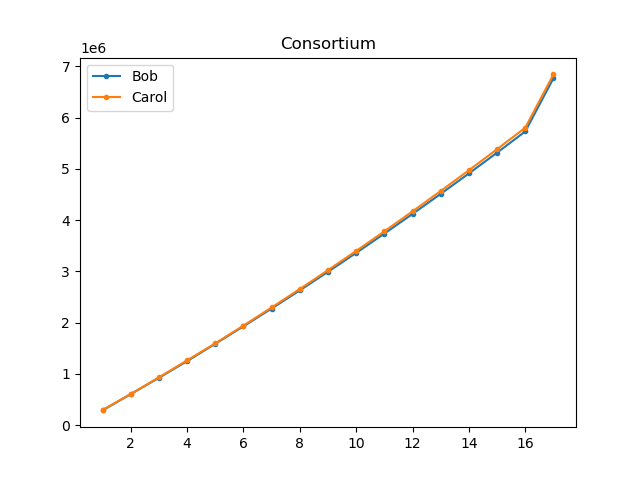
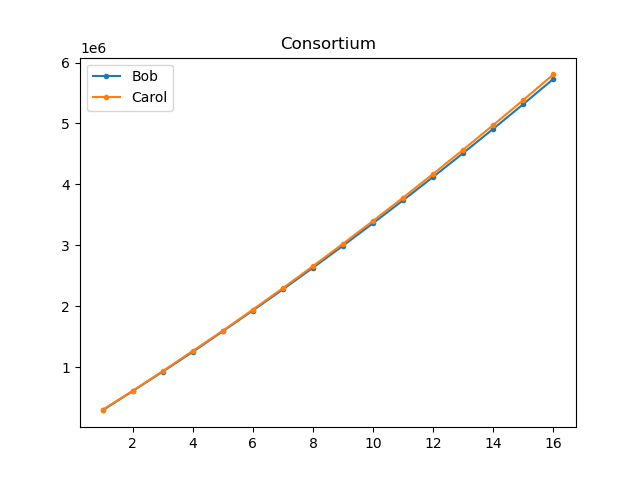
Remove faulty last round from consortium gas plots

diff --git a/scripts/plot_tokens.py b/scripts/plot_tokens.py
@@ -97,19 +97,9 @@ def gas_history(results):
             if protocol == 'crowdsource':
                 y = [d[str(i)] for i in x]
             if protocol == 'consortium':
-                y = []
-                for i in x:
-                    round_total = sum([
+                y = [sum([
                         d[k][str(i)] for k in d.keys()
-                    ])
-                    y.append(round_total)
-                final_eval_round = num_rounds + 1
-                x.append(final_eval_round)
-                for k in d.keys():
-                    if str(final_eval_round) in d[k]:
-                        final_round_total = d[k][str(final_eval_round)]
-                        break
-                y.append(y[-1] + final_round_total)
+                    ]) for i in x]
             plt.plot(x, y, label=name, marker='.')
         plt.title(protocol.capitalize())
         plt.legend()
